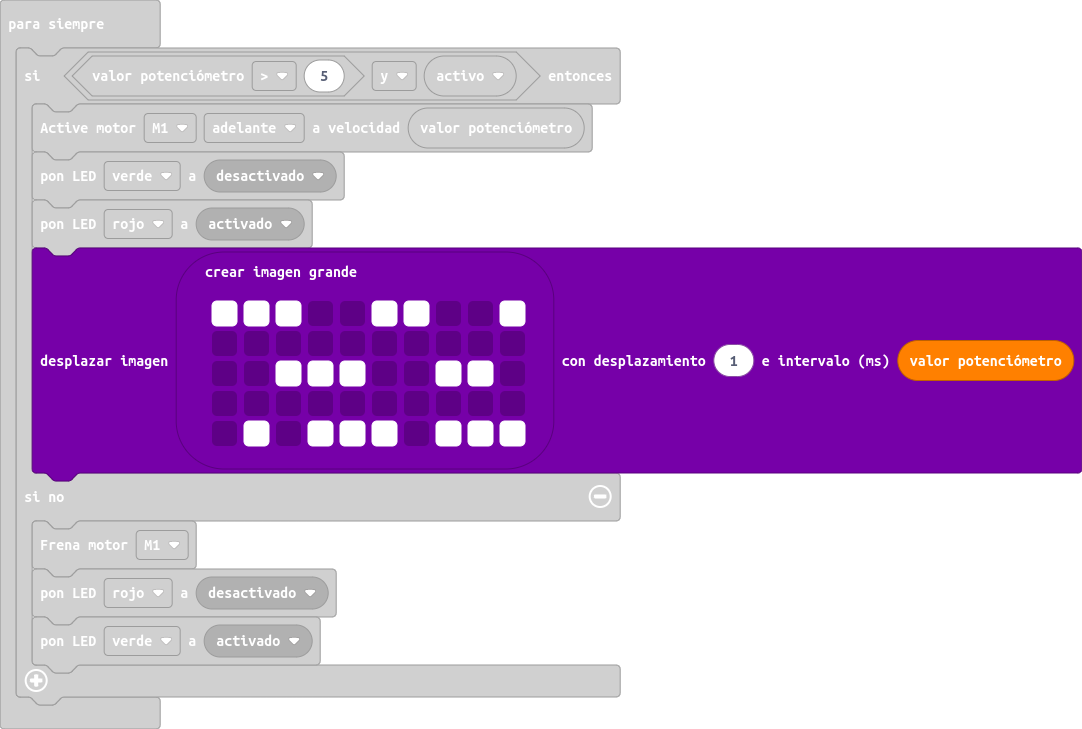
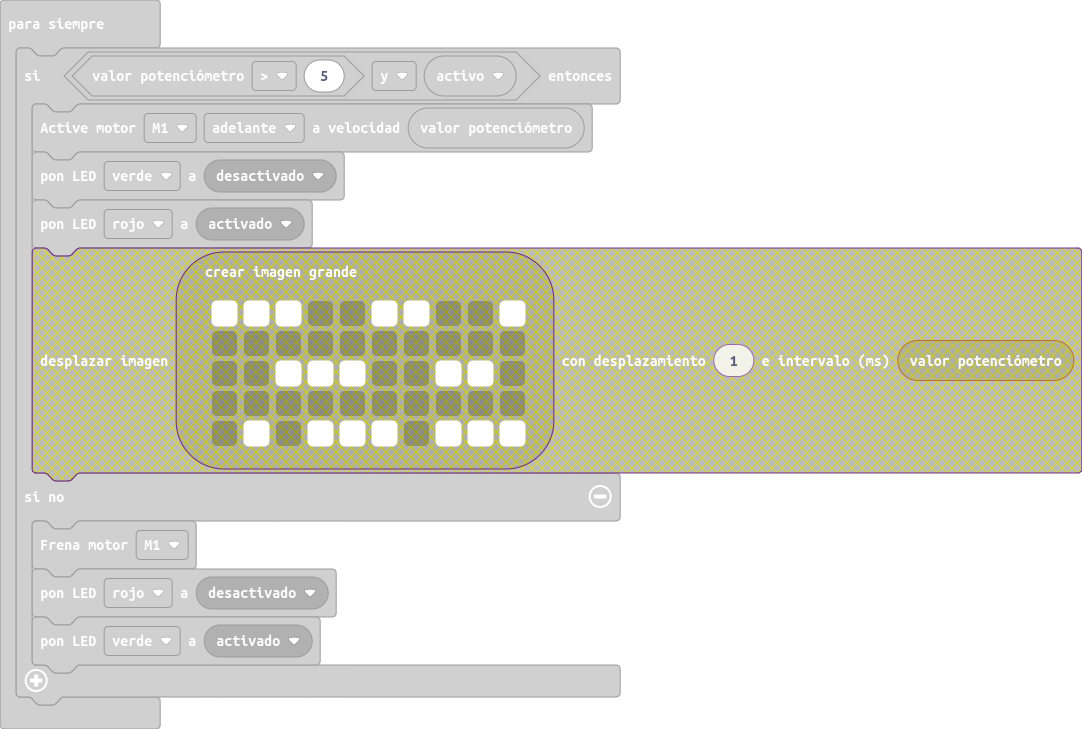
Funciona, ventilador y luces de semáforo

Changed region(s): [[0.0305, 0.332, 1.0, 0.6639]]

diff --git a/main.ts b/main.ts
@@ -11,13 +11,6 @@ basic.forever(function () {
         edubitMotors.runMotor(MotorChannel.M1, MotorDirection.Forward, edubitPotentioBit.readPotValue())
         edubitTrafficLightBit.setLed(LedColor.Green, edubitTrafficLightBit.digitalStatePicker(DigitalIoState.Off))
         edubitTrafficLightBit.setLed(LedColor.Red, edubitTrafficLightBit.digitalStatePicker(DigitalIoState.On))
-        images.createBigImage(`
-            # # # . . # # . . #
-            . . . . . . . . . .
-            . . # # # . . # # .
-            . . . . . . . . . .
-            . # . # # # . # # #
-            `).scrollImage(1, edubitPotentioBit.readPotValue())
     } else {
         edubitMotors.brakeMotor(MotorChannel.M1)
         edubitTrafficLightBit.setLed(LedColor.Red, edubitTrafficLightBit.digitalStatePicker(DigitalIoState.Off))
